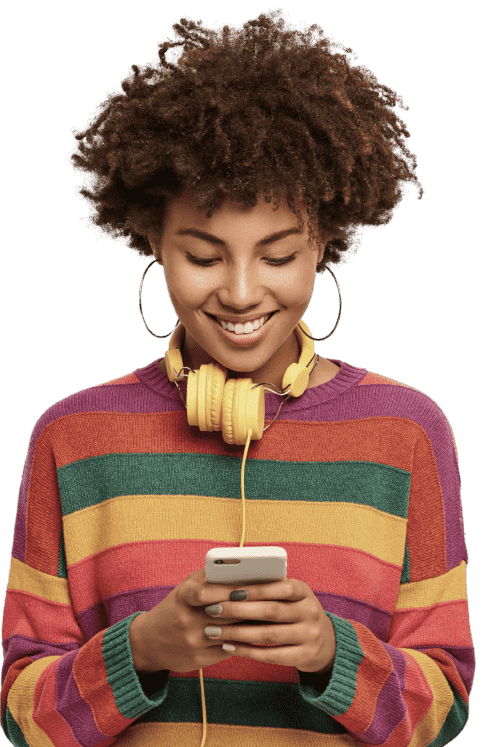
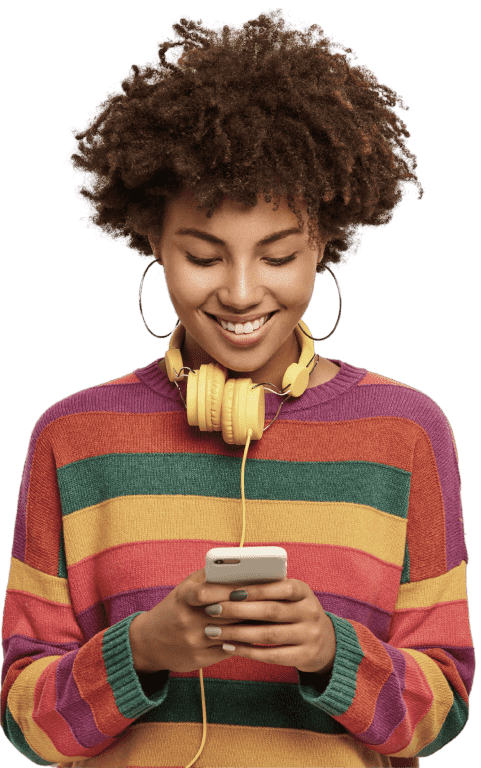
avance

diff --git a/public/css/style.css b/public/css/style.css
@@ -571,17 +571,17 @@ video {
 	--tw-border-opacity: 1;
 	border-color: rgba(229, 231, 235, var(--tw-border-opacity));
 }
-.col-span-3 {
-	grid-column: span 3 / span 3;
+.col-span-4 {
+	grid-column: span 4 / span 4;
 }
 .col-span-6 {
 	grid-column: span 6 / span 6;
 }
-.col-span-4 {
-	grid-column: span 4 / span 4;
-}
 .col-span-5 {
 	grid-column: span 5 / span 5;
+}
+.m-4 {
+	margin: 1rem;
 }
 .mx-auto {
 	margin-left: auto;
@@ -589,6 +589,15 @@ video {
 }
 .mt-16 {
 	margin-top: 4rem;
+}
+.mt-4 {
+	margin-top: 1rem;
+}
+.mt-6 {
+	margin-top: 1.5rem;
+}
+.mt-8 {
+	margin-top: 2rem;
 }
 .block {
 	display: block;
@@ -605,59 +614,44 @@ video {
 .h-\[54px\] {
 	height: 54px;
 }
-.h-\[\] {
-	height: ;
-}
-.h-\[46px\] {
-	height: 46px;
-}
 .h-\[40px\] {
 	height: 40px;
 }
-.h-24 {
-	height: 6rem;
+.h-screen {
+	height: 100vh;
 }
-.h-52 {
-	height: 13rem;
-}
-.h-\[767px\] {
-	height: 767px;
+.max-h-screen {
+	max-height: 100vh;
 }
 .w-11\/12 {
 	width: 91.666667%;
 }
-.w-\[\] {
-	width: ;
-}
 .w-\[200px\] {
 	width: 200px;
 }
-.w-full {
-	width: 100%;
+.w-10\/12 {
+	width: 83.333333%;
 }
-.w-11 {
-	width: 2.75rem;
-}
-.flex-grow {
-	flex-grow: 1;
-}
-.flex-grow-0 {
-	flex-grow: 0;
+.w-9\/12 {
+	width: 75%;
 }
 .grid-cols-12 {
 	grid-template-columns: repeat(12, minmax(0, 1fr));
 }
-.flex-row {
-	flex-direction: row;
-}
 .flex-col {
 	flex-direction: column;
 }
-.flex-wrap {
-	flex-wrap: wrap;
+.place-content-between {
+	place-content: space-between;
+}
+.content-between {
+	align-content: space-between;
 }
 .items-center {
 	align-items: center;
+}
+.items-stretch {
+	align-items: stretch;
 }
 .justify-end {
 	justify-content: flex-end;
@@ -668,30 +662,21 @@ video {
 .justify-between {
 	justify-content: space-between;
 }
-.space-x-16 > :not([hidden]) ~ :not([hidden]) {
+.space-x-6 > :not([hidden]) ~ :not([hidden]) {
 	--tw-space-x-reverse: 0;
-	margin-right: calc(4rem * var(--tw-space-x-reverse));
-	margin-left: calc(4rem * calc(1 - var(--tw-space-x-reverse)));
-}
-.space-x-5 > :not([hidden]) ~ :not([hidden]) {
-	--tw-space-x-reverse: 0;
-	margin-right: calc(1.25rem * var(--tw-space-x-reverse));
-	margin-left: calc(1.25rem * calc(1 - var(--tw-space-x-reverse)));
-}
-.space-x-3 > :not([hidden]) ~ :not([hidden]) {
-	--tw-space-x-reverse: 0;
-	margin-right: calc(0.75rem * var(--tw-space-x-reverse));
-	margin-left: calc(0.75rem * calc(1 - var(--tw-space-x-reverse)));
+	margin-right: calc(1.5rem * var(--tw-space-x-reverse));
+	margin-left: calc(1.5rem * calc(1 - var(--tw-space-x-reverse)));
 }
 .space-x-2 > :not([hidden]) ~ :not([hidden]) {
 	--tw-space-x-reverse: 0;
 	margin-right: calc(0.5rem * var(--tw-space-x-reverse));
 	margin-left: calc(0.5rem * calc(1 - var(--tw-space-x-reverse)));
 }
-.space-x-6 > :not([hidden]) ~ :not([hidden]) {
-	--tw-space-x-reverse: 0;
-	margin-right: calc(1.5rem * var(--tw-space-x-reverse));
-	margin-left: calc(1.5rem * calc(1 - var(--tw-space-x-reverse)));
+.self-start {
+	align-self: flex-start;
+}
+.self-end {
+	align-self: flex-end;
 }
 .self-center {
 	align-self: center;
@@ -702,9 +687,9 @@ video {
 .border {
 	border-width: 1px;
 }
-.bg-green-600 {
+.bg-\[\#FCFCFC\] {
 	--tw-bg-opacity: 1;
-	background-color: rgba(5, 150, 105, var(--tw-bg-opacity));
+	background-color: rgba(252, 252, 252, var(--tw-bg-opacity));
 }
 .bg-\[\#0140A8\] {
 	--tw-bg-opacity: 1;
@@ -714,9 +699,17 @@ video {
 	--tw-bg-opacity: 1;
 	background-color: rgba(255, 143, 0, var(--tw-bg-opacity));
 }
-.bg-\[\#FCFCFC\] {
-	--tw-bg-opacity: 1;
-	background-color: rgba(252, 252, 252, var(--tw-bg-opacity));
+.bg-background-svg {
+	background-image: url('/public/img/background_index.svg');
+}
+.bg-bottom {
+	background-position: bottom;
+}
+.bg-no-repeat {
+	background-repeat: no-repeat;
+}
+.bg-repeat-x {
+	background-repeat: repeat-x;
 }
 .px-8 {
 	padding-left: 2rem;
@@ -726,36 +719,22 @@ video {
 	padding-left: 1.5rem;
 	padding-right: 1.5rem;
 }
-.px-4 {
-	padding-left: 1rem;
-	padding-right: 1rem;
-}
-.px-5 {
-	padding-left: 1.25rem;
-	padding-right: 1.25rem;
-}
 .font-poppins {
 	font-family: Poppins, sans-serif;
-}
-.text-6xl {
-	font-size: 3.75rem;
-	line-height: 1;
 }
 .text-xl {
 	font-size: 1.25rem;
 	line-height: 1.75rem;
+}
+.text-6xl {
+	font-size: 3.75rem;
+	line-height: 1;
 }
 .font-bold {
 	font-weight: 700;
 }
 .font-extrabold {
 	font-weight: 800;
-}
-.leading-\[75\] {
-	line-height: 75;
-}
-.leading-\[75px\] {
-	line-height: 75px;
 }
 .leading-\[4\.688rem\] {
 	line-height: 4.688rem;
@@ -764,11 +743,11 @@ video {
 	--tw-text-opacity: 1;
 	color: rgba(255, 255, 255, var(--tw-text-opacity));
 }
-.text-\[\#454545\] {
-	--tw-text-opacity: 1;
-	color: rgba(69, 69, 69, var(--tw-text-opacity));
-}
 .text-\[\#85878B\] {
 	--tw-text-opacity: 1;
 	color: rgba(133, 135, 139, var(--tw-text-opacity));
+}
+.text-\[\#454545\] {
+	--tw-text-opacity: 1;
+	color: rgba(69, 69, 69, var(--tw-text-opacity));
 }

diff --git a/public/index.html b/public/index.html
@@ -4,14 +4,14 @@
     <meta charset="UTF-8">
     <meta http-equiv="X-UA-Compatible" content="IE=edge">
     <meta name="viewport" content="width=device-width, initial-scale=1.0">
-    <title>Document</title>
+    <title>Tecnovedades</title>
     <link rel="stylesheet" href="./css/style.css">
     <link rel="preconnect" href="https://fonts.googleapis.com">
     <link rel="preconnect" href="https://fonts.gstatic.com" crossorigin>
     <link href="https://fonts.googleapis.com/css2?family=Poppins:wght@100;200;300;400;500;700;800;900&display=swap" rel="stylesheet">   
 </head>
-<body class="font-poppins bg-[#FCFCFC]">
-    <header class="grid grid-cols-12 w-11/12 mx-auto h-2/6">
+<body class="font-poppins bg-[#FCFCFC] h-screen border">
+    <header class="grid grid-cols-12 w-10/12 mx-auto mt-8">
 
             <!--Logo SVG-->
             <div class="
@@ -57,22 +57,24 @@
     <div class="
         grid
         grid-cols-12
-        w-11/12 
+        place-content-between
+        w-10/12 
         mx-auto
         mt-16
+        border
     ">
-        <div class="col-span-6">
-            <div class="flex flex-col">
+        <div class="col-span-6 flex flex-col items-stretch h-100">
+            <div class="flex flex-col self-start">
                 <h2 class="text-xl font-bold text-[#85878B]">Incremente el alcance de sus productos o servicios</h2>
-                <h1 class="font-extrabold text-6xl text-[#454545] leading-[4.688rem]">Pon tu negocio en linea, nosotros sabemos como hacerlo.</h1>
-                <p class="text-xl text-[#85878B]">
+                <h1 class="font-extrabold text-6xl text-[#454545] leading-[4.688rem] mt-8">Pon tu negocio en linea, nosotros sabemos como hacerlo.</h1>
+                <p class="text-xl text-[#85878B] mt-8">
                     Somos conscientes que el aspecto, la funcionalidad y el contenido de tu sitio web son los encargados de transmitir a tus clientes 
                     la esencia de tu empresa y de convencerlos de confiar en tus productos y servicios.
                 </p>
                 <a href="#">Cotizar web</a>
             </div>            
 
-            <div class="flex">
+            <div class="flex self-end">
                 <embed src="./img/logo_woocommerce.svg">
                 <embed src="./img/logo_shopify.svg">
                 <embed src="./img/logo_wordpress.svg">
@@ -80,10 +82,10 @@
             </div>
         </div>
         
-        <div class="col-span-6">
-            <img src="./img/cliente.png" alt="Cliente interactuando con sus cliente por medio de su website.">
+        <div class="col-span-6 flex justify-center bg-background-svg bg-no-repeat bg-bottom border">            
+           <img src="./img/cliente.png" alt="">
         </div>
-
+        
     </div>
 </body>
 </html>

diff --git a/tailwind.config.js b/tailwind.config.js
@@ -8,7 +8,10 @@ module.exports = {
     extend: {
       fontFamily: {
         'poppins': ['Poppins', 'sans-serif']
-      }
+      },
+      backgroundImage: {
+        'background-svg': "url('/public/img/background_index.svg')"
+       }
     }
   },
   variants: {
